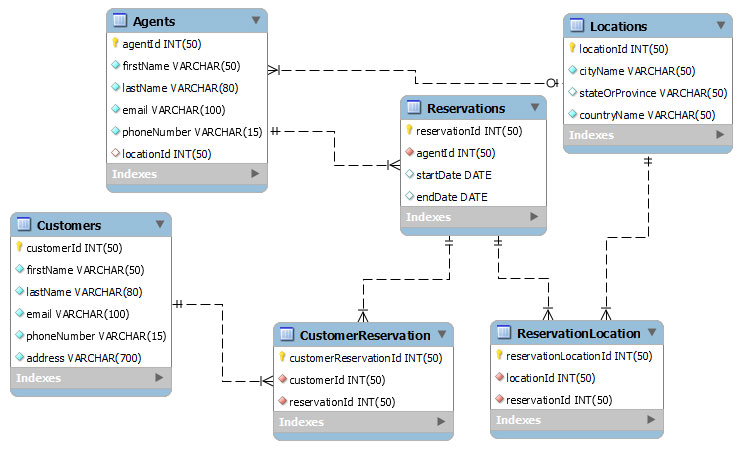
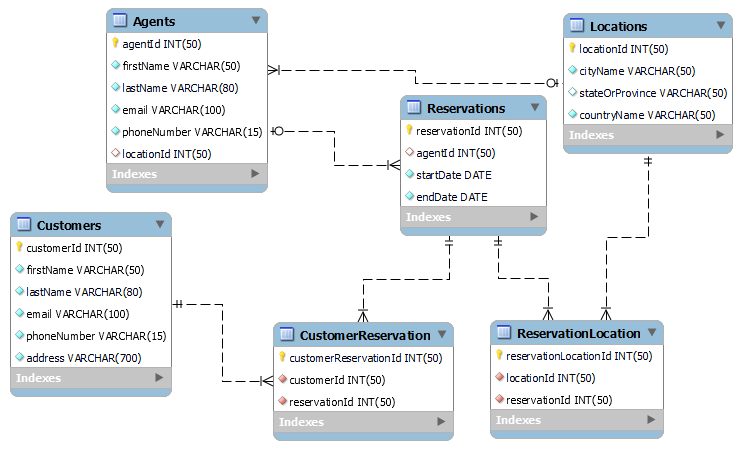
Made startDate+endDate required, agentId nullable in reservations table.

diff --git a/app.js b/app.js
@@ -44,7 +44,7 @@ app.get('/customerReservation', function(req, res)
     let query1 = "SELECT customerReservationId,   CONCAT(Customers.firstName, ' ', Customers.lastName) AS customer, reservationId FROM CustomerReservation JOIN Customers ON CustomerReservation.customerId = Customers.customerId ORDER BY customerReservationId ASC;";
 
     // Declare Query 2
-    let query2 = "SELECT reservationId, CONCAT(Agents.firstName, ' ', Agents.lastName) AS agent, date_format(startDate,'%Y-%m-%d') AS startDate, date_format(endDate, '%Y-%m-%d') AS endDate FROM Reservations JOIN Agents ON Reservations.agentId = Agents.agentId ORDER BY reservationId ASC;";
+    let query2 = "SELECT reservationId, CONCAT(Agents.firstName, ' ', Agents.lastName) AS agent, date_format(startDate,'%Y-%m-%d') AS startDate, date_format(endDate, '%Y-%m-%d') AS endDate FROM Reservations LEFT JOIN Agents ON Reservations.agentId = Agents.agentId ORDER BY reservationId ASC;";
 
     // Declare Query 3
     let query3 = "SELECT customerId, CONCAT(Customers.firstName, ' ', Customers.lastName) AS `customer` FROM Customers ORDER BY customerId ASC;";
@@ -144,7 +144,7 @@ app.get('/customers', function (req, res) {
 
 app.get('/reservations', function (req, res) {
     // Declare Query1
-    let query = "SELECT reservationId, CONCAT(Agents.firstName, ' ', Agents.lastName) AS agent, date_format(startDate,'%Y-%m-%d') AS startDate, date_format(endDate, '%Y-%m-%d') AS endDate FROM Reservations JOIN Agents ON Reservations.agentId = Agents.agentId ORDER BY reservationId ASC;";
+    let query = "SELECT reservationId, CONCAT(Agents.firstName, ' ', Agents.lastName) AS agent, date_format(startDate,'%Y-%m-%d') AS startDate, date_format(endDate, '%Y-%m-%d') AS endDate FROM Reservations LEFT JOIN Agents ON Reservations.agentId = Agents.agentId ORDER BY reservationId ASC;";
 
     // Declare Query 2
     let query2 = "SELECT agentId, CONCAT(Agents.firstName, ' ', Agents.lastName) AS `agent` FROM Agents ORDER BY agentId ASC;";
@@ -172,7 +172,7 @@ app.get('/reservationLocation', function (req, res) {
     let query1 = "SELECT reservationLocationId, CONCAT(cityName,', ', IF(stateOrProvince IS NOT NULL, CONCAT(stateOrProvince, ', '), ''), countryName) AS `location`, ReservationLocation.reservationId FROM ReservationLocation INNER JOIN Locations ON ReservationLocation.locationId = Locations.locationId INNER JOIN Reservations ON Reservations.reservationId = ReservationLocation.reservationId ORDER BY reservationLocationId ASC; ";
 
     // Declare Query 2 
-    let query2 = "SELECT reservationId, CONCAT(Agents.firstName, ' ', Agents.lastName) AS agent, date_format(startDate,'%Y-%m-%d') AS startDate, date_format(endDate, '%Y-%m-%d') AS endDate FROM Reservations JOIN Agents ON Reservations.agentId = Agents.agentId ORDER BY reservationId ASC;";
+    let query2 = "SELECT reservationId, CONCAT(Agents.firstName, ' ', Agents.lastName) AS agent, date_format(startDate,'%Y-%m-%d') AS startDate, date_format(endDate, '%Y-%m-%d') AS endDate FROM Reservations LEFT JOIN Agents ON Reservations.agentId = Agents.agentId ORDER BY reservationId ASC;";
 
     // Declare Query 3 reservation dropdown
     let query3 = "SELECT reservationId FROM Reservations ORDER BY reservationId ASC; ";
@@ -318,7 +318,9 @@ app.post('/add-agent', function(req, res)
     // Capture NULL values + Handle additional single quotes.
     let locationId = data.locationId;
     if (locationId == 0)
-    locationId = 'NULL';
+    {
+        locationId = 'NULL';
+    }
 
     // Create the query and run it on the database
     query1 = `INSERT INTO Agents (firstName, lastName, email, phoneNumber, locationId) VALUES ('${data.firstName}', '${data.lastName}', '${data.email}', '${data.phoneNumber}', ${locationId})`;
@@ -399,31 +401,16 @@ app.post('/add-reservation', function (req, res) {
     let data = req.body;
 
     // Capture NULL values + Handle additional single quotes.
-    // Data.startDate gives "yyyy-mm-dd" JSON format
-    let startDate = data.startDate; 
-    let endDate = data.endDate;
-    
-    if (startDate == "")
+    let agentId = data.agentId;
+    if (agentId == 0)
     {
-        startDate = 'NULL';
-
-    }
-    else{
-        startDate = `'${data.startDate}'`;
-    }
-
-    if (endDate == "")
-    {
-        endDate = 'NULL';
-    }
-    else{  
-        endDate = `'${data.endDate}'`;
+        agentId = 'NULL';
     }
 
     // Create the query and run it on the database
     // date variables are listed directly without prefix ".data" so treated as a string w/ single quotes ie: "'yyyy-mm-dd'"
     
-    query1 = `INSERT INTO Reservations (agentId, startDate, endDate) VALUES (${data.agentId}, ${startDate}, ${endDate});`;
+    query1 = `INSERT INTO Reservations (agentId, startDate, endDate) VALUES (${agentId}, '${data.startDate}', '${data.endDate}');`;
 
     db.pool.query(query1, function (error, rows, fields) {
 
@@ -436,7 +423,7 @@ app.post('/add-reservation', function (req, res) {
         }
         else {
             // If there was no error, get all records.
-            query2 = `SELECT reservationId, CONCAT(Agents.firstName, ' ', Agents.lastName) AS agent, date_format(startDate,'%Y-%m-%d') AS startDate, date_format(endDate, '%Y-%m-%d') AS endDate FROM Reservations JOIN Agents ON Reservations.agentId = Agents.agentId ORDER BY reservationId ASC;`;
+            query2 = `SELECT reservationId, CONCAT(Agents.firstName, ' ', Agents.lastName) AS agent, date_format(startDate,'%Y-%m-%d') AS startDate, date_format(endDate, '%Y-%m-%d') AS endDate FROM Reservations LEFT JOIN Agents ON Reservations.agentId = Agents.agentId ORDER BY reservationId ASC;`;
             
             db.pool.query(query2, function (error, rows, fields) {
 

diff --git a/public/js/update_customerReservation.js b/public/js/update_customerReservation.js
@@ -27,9 +27,10 @@ updateCustomerReservationForm.addEventListener("submit", function (e) {
     // Currently the database table for customerReservation does not allow updating values to NULL
     // So we must abort if being passed NULL for any values.
 
-    if (isNaN(idValue) || isNaN(customerIdValue) || isNaN(reservationIdValue)) 
+    if (idValue == 0 || customerIdValue == 0 || reservationIdValue == 0) 
     {
-        // We could add an error message here?
+        // Error message here.
+        console.log("Null values are not accepted with this input.")
         return;
     }
 

diff --git a/public/js/update_customer.js b/public/js/update_customer.js
@@ -33,7 +33,7 @@ updateCustomerForm.addEventListener("submit", function (e) {
     // Currently the database table for customer does not allow updating values to NULL
     // So we must abort if being passed NULL for any values.
     // Enforcing that inputs are not empty
-    if (isNaN(customerIdValue) 
+    if (customerIdValue == 0
         | firstNameValue == ""
         | lastNameValue == ""
         | emailValue == "" 

diff --git a/public/js/update_agent.js b/public/js/update_agent.js
@@ -32,7 +32,7 @@ updateAgentForm.addEventListener("submit", function (e) {
 
 
     // Throw error if any values are empty other than the locationId.
-    if (isNaN(agentIdValue) 
+    if (agentIdValue == 0
         | firstNameValue == ""
         | lastNameValue == ""
         | emailValue == "" 
